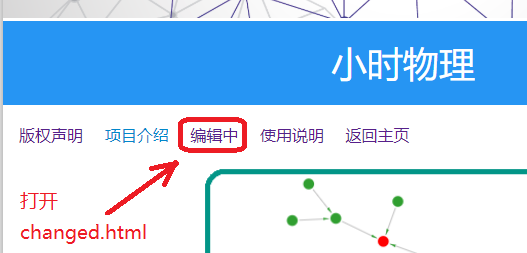
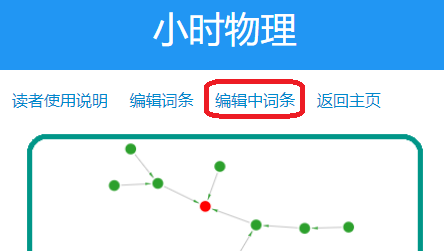
server save

diff --git a/contents/editor.tex b/contents/editor.tex
@@ -1,17 +1,28 @@
 % 编辑器使用说明
 
-\subsection{综述}
+\subsection{简介}
 \begin{itemize}
+\item 在线编辑器网址为 \link{littleshi.cn/editor}{http://littleshi.cn/editor}， 也可从网站首页的链接进入
 \item 编辑器处于测试阶段， 请自行使用下载按钮备份
-\item 该编辑器为本站自主开发， 可直接将 LaTeX 代码转换为 html 网页而不是 pdf， 从而实现了实时编译（快捷键 \lstinline|Ctrl + s| 保存并编译）
+\item 该编辑器为本站自主开发， 可直接将 LaTeX 代码转换为 html 网页而不是 pdf
 \item 我们以后也会开发在线编译 pdf 并下载的功能
 \item 该编辑器除公式外只支持有限的 LaTeX 的命令（工具栏有一些常用的）
-\item 我们在模板中加入了许多自定义命令， 但不会影响 LaTeX 原有的命令（除了 \lstinline|\vec|， 见下文）．
+\item 我们在模板中加入了许多自定义命令， 但不会影响 LaTeX 原有的命令（除了 \lstinline|\vec|）
+\item 要查看支持的所有命令和自定义命令， 请在编辑器中打开 “词条示例（Sample）\upref{Sample}”
+\end{itemize}
+
+\subsection{公式}
+\begin{itemize}
+\item 公式环境支持大部分 LaTeX 命令， 严格来说是所有 \link{MathJax}{https://www.mathjax.org/} 支持的命令\footnote{MathJax 项目用于在网页上显示 LaTeX 公式}．
+\item 支持部分 \link{Physics 宏包}{http://mirrors.ibiblio.org/CTAN/macros/latex/contrib/physics/physics.pdf}中的命令．
+\item 我们把 \lstinline|\vec| 命令重新定义为正体和粗体（以符合常见物理学教材）， 如 \lstinline|\vec a| 被显示为 $\vec a$ ．
+\item 行内公式只能用美元符号
+\item 独立公式用 equation 环境， align 环境或者 gather 环境
 \end{itemize}
 
 \subsection{百科的结构}
 
-百科的所有词条（见\link{总目录}{http://littleshi.cn/online/}）是 LaTeX 的一个 document 环境， 每个部分是一个 \lstinline|\part|， 每章是一个 \lstinline|\chapter|， 词条是 \lstinline|\section|， 蓝色的小标题是 \lstinline|\subsubsection|， 黑色的小标题是 \lstinline|\subsubsection|． 编辑器打开的一个词条文件就是一个 section． 用 texlive 编译 pdf 的时候所有 section 都会通过 \lstinline|\input| 插入到主文件 PhysWiki.tex 中．
+百科的所有词条是 LaTeX 的一个 document 环境， 每个部分是一个 \lstinline|\part|， 每章是一个 \lstinline|\chapter|， 词条是 \lstinline|\section|， 蓝色的小标题是 \lstinline|\subsubsection|， 黑色的小标题是 \lstinline|\subsubsection|． 编辑器打开的一个词条文件就是一个 section． 用 texlive 编译 pdf 的时候所有 section 都会通过 \lstinline|\input| 插入到主文件 PhysWiki.tex 中．
 
 网页版的词条目录（\link{littleshi.cn/online/}{http://littleshi.cn/online/}）由 PhysWiki.tex 生成， 所以发布词条后必须修改该文件并发布才能在目录中显示．
 
@@ -20,15 +31,15 @@
 \begin{figure}[ht]
 \centering
 \includegraphics[width=9cm]{./figures/editor1.png}
-\caption{查看编辑中的词条} \label{editor_fig1}
+\caption{从 \link{littleshi.cn/online}{http://littleshi.cn/online} 查看编辑中的词条} \label{editor_fig1}
 \end{figure}
 
 每个词条文件（后缀名为 tex）都有一个独一无二的文件名， 可以将通过将光标停留在编辑器中的 tab 上查看．
 
 \begin{figure}[ht]
 \centering
-\includegraphics[width=5cm]{./figures/editor2.png}
-\caption{查看编辑器中打开的词条的文件名} \label{editor_fig2}
+\includegraphics[width=4cm]{./figures/editor2.png}
+\caption{查看词条文件名} \label{editor_fig2}
 \end{figure}
 
 每个词条（section） 的 label 与文件名相同， 转换后输出的 html 文件也由相同的文件名， 可以在浏览器的地址栏中看到（例如本文的 tex 文件是 editor.tex， label 是 editor， 转换成网页为 editor.html）．
@@ -39,11 +50,9 @@
 
 \item 按下保存按钮（快捷键 \lstinline|Ctrl + s|） 会自动保存并编译
 
-\item 如果要在 html 预览和 LaTex 代码之间跳转， 可以通过搜索关键词实现． 例如在预览窗口复制一段文字， 在编辑窗口搜索就可以跳转到对应内容
-
-\item 要查看编辑器支持的所有命令和所有自定义的公式， 见 “词条示例（Sample）\upref{Sample}”． 当然， 所有已有的词条也都可以作为示例
-
 \item 编辑器支持各种自动引用（被引用对象没有 label 时会自动插入 label）， 工具栏上的内部引用按钮可以引用同一词条的公式， 图表， 例题等环境． 外部引用按钮可以引用其他词条的各种环境
+
+\item 如果要在 html 预览和 LaTex 代码之间跳转， 可以通过搜索关键词实现． 例如在预览窗口复制一段文字， 在编辑窗口搜索就可以跳转到对应内容
 \end{itemize}
 
 \subsubsection{快捷键}
@@ -69,17 +78,3 @@
 \hline
 \end{tabular}
 \end{table}
-
-\subsection{公式}
-\begin{itemize}
-\item 公式环境支持大部分 LaTeX 命令， 严格来说是所有 \link{MathJax}{https://www.mathjax.org/} 支持的命令\footnote{MathJax 项目用于在网页上显示 LaTeX 公式}．
-\item 支持部分 \link{Physics 宏包}{http://mirrors.ibiblio.org/CTAN/macros/latex/contrib/physics/physics.pdf}中的命令．
-\item 我们把 \lstinline|\vec| 命令重新定义为正体和粗体， 如 \lstinline|\vec a| 被显示为 $\vec a$．
-\end{itemize}
-
-\subsection{格式要求}
-
-\begin{itemize}
-\item 行内公式用美元符号
-\item 独立公式用 equation 环境， align 环境或者 gather 环境
-\end{itemize}

diff --git a/contents/Sample.tex b/contents/Sample.tex
@@ -1,15 +1,11 @@
-% 百科词条编写规范
+% 词条示例
 
 \pentry{本书编写规范\upref{Sample}}
 
-\textbf{本词条需要与 LaTeX 源码对照阅读}
-
-\subsection{蓝色的小标题}
-通过 \lstinline|\subsection{}| 实现．
-\subsubsection{黑色的小小标题}
-通过 \lstinline|\subsubsection{}| 实现．
+本词条需要与 LaTeX 源码对照阅读， 请使用\link{在线编辑器}{http://littleshi.cn/editor}中打开．
 
 \subsection{正文}
+蓝色的小标题通过 \lstinline|\subsection| 实现， 黑色的小小标题通过 \lstinline|\subsubsection| 实现．
 
 正文必须使用中文的括号，逗号，引号，冒号，分号，问号，感叹号，以及全角实心句号． 严谨使用英文标点． 像“牛顿—莱布尼兹公式” 中的横线必须用中文单破折号． 所有的标点符号前面不能有空格，后面尽量有空格． 正文\textbf{粗体}用 \lstinline|\textbf|． 方便的办法是先全部使用中文标点，最后再把所有空心句号替换成全角实心句号． 正文中禁止使用 \lstinline|\\| 换行， 以及 \lstinline|\noindent|， \lstinline|\phantom| 等命令强制修改格式．
 
@@ -18,7 +14,7 @@
 
 独立公式的 label 必须要按照 “词条标签\_eq编号” 的格式，只有需要引用的公式才加标签， 标签编号无需和编译后的编号相同， 保证标签不重复即可． 图表的标签分别把 \lstinline|eq| 改成 \lstinline|fig| 和 \lstinline|tab| 即可，例题用 \lstinline|ex|， 习题用 \lstinline|exe|．但凡是有 \lstinline|\caption| 命令的，\lstinline|\label| 需要紧接其后． 公式严禁使用 MathType 等软件自动生成， 必须手打．
 \begin{equation}\label{Sample_eq1}
-(a+b)^n = \sum_{i=0}^n C_n^i a^i b^{n-i} \quad (n\text{为整数})
+(a+b)^n = \sum_{i=0}^n C_n^i a^i b^{n-i} \quad (\text{$n$ 为整数})
 \end{equation}
 
 公式中的空格从小到大如 $a\, b\; c\quad d\qquad e$， 注意大括号不可省略． 公式中三点省略号用 $\dots$， 如果要强制在下方， 用 $\ldots$． 实部和虚部如 $\Re[z], \Im[z]$． 双重极限如
@@ -65,7 +61,7 @@
 \begin{equation}
 \qty(\frac ab)^2 \qquad \qty[\frac ab]^2 \qquad \qty{ \frac ab}
 \end{equation}
-矢量点乘如 $\vec A \vdot \vec B$ （不可省略），矢量叉乘如 $\vec A\cross\vec B$．
+矢量点乘如 $\vec A \vdot \vec B$ （\lstinline|\vdot| 不可省略），矢量叉乘如 $\vec A\cross\vec B$．
 
 常用三角函数和自然指数对数函数后面的小括号（中括号不可以！）会自动改变尺寸，若要给他们加幂，用中括号
 \begin{equation}
@@ -87,11 +83,11 @@
 \subsection{自定义的命令}
 本模板自定义的命令如下， 如果不使用， 要保证编译后效果相同．
 
-引用公式和图表都统一使用 \lstinline|\autoref| 命令， 注意前面不加空格后面要加空格（后面是标点符号除外）， 例如\autoref{Sample_eq1}． 如果要引用其他词条中的公式，可以引用“其他词条\upref{Sample}”的\autoref{Sample_eq1} 也可以用“\autoref{Sample_eq1}\upref{Sample}”， 为了方便在纸质书上使用， 词条页码是不能忽略的．
+引用公式和图表都统一使用 \lstinline|\autoref| 命令， 注意前面不加空格后面要加空格（后面是标点符号除外）， 例如\autoref{Sample_eq1}． 如果要引用其他词条中的公式，可以引用 “其他词条\upref{Sample}” 的\autoref{Sample_eq1} 也可以用 “\autoref{Sample_eq1}\upref{Sample}”， 为了方便在纸质书上使用， 词条页码是不能忽略的．
 
-单位矢量如 $\uvec a$．
+正文中粗体可以用 \lstinline|\bb| 等效于 \lstinline|\textbf|． 单位矢量如 $\uvec a$．
 
-写量纲用 \lstinline|\Si{}| 命令， 如 $a = 100\Si{m/s^2}$， 这个命令只能出现在公式环境内（否则 PhysWikiScan 会出 Bug）．
+写量纲用 \lstinline|\Si{}| 命令， 如 $a = 100\Si{m/s^2}$， 这个命令只能出现在公式环境内．
 
  \lstinline|\sinc| 函数如 $\sinc x, \sinc(x), \sinc^2(x+y)$，但后面的括号没有自动尺寸．
  
@@ -158,7 +154,7 @@ $(1 + x)^{1/x}$ & 2.59374 & 2.70481 & 2.71692 & 2.71815 & 2.71827 & 2.71828 \\
 \begin{exam}{名称}\label{Sample_ex1}
 在例子中，我们的字体可以自定义，包括公式的字号会保持与内容一致．
 \begin{equation}
-(a+b)^n = \sum_{i=0}^n C_n^i a^i b^{n-i} \quad (n\text{为整数})
+(a+b)^n = \sum_{i=0}^n C_n^i a^i b^{n-i} \quad (\text{$n$ 为整数})
 \end{equation}
 \end{exam}
 引用例子同样使用 \lstinline|\autoref{}|， 如\autoref{Sample_ex1}． 

diff --git a/contents/ResoN.tex b/contents/ResoN.tex
@@ -28,5 +28,5 @@ A = \frac{B}{\sqrt{(\omega^2 - \omega_0^2)^2 m^2 + \alpha^2\omega^2}}
 E = \frac{C}{\Delta\omega^2 + \gamma^2/4}. 
 \end{align}
 
-接下来，我们讨论对一个这种高$Q$阻尼振荡里面，频率的测量到底能有多精准．这个问题之所以重要是因为当今最准确的测量就是对于频率的测量，所以这个问题的讨论实际上对应于我们对于物理量的测量到底能精确到什么程度．当然，这个问题最最直接的回答是由Fourier定理保证的，$\Delta t\Delta \omega\ge1/2$．这个形式与Heisenberg不确定性原理非常像，其原因之一就是量子力学的量子态是有其波动内涵的．然而这个回答是非常微妙的，因为对于$\Delta\omega$的定义其实并不明确．
+接下来，我们讨论对一个这种高$Q$阻尼振荡里面，频率的测量到底能有多精准．这个问题之所以重要是因为当今最准确的测量就是对于频率的测量，所以这个问题的讨论实际上对应于我们对于物理量的测量到底能精确到什么程度．当然，这个问题最最直接的回答是由Fourier定理保证的，$\Delta t\Delta \omega\ge1/2$．这个形式与Heisenberg不确定性原理非常像，其原因之一就是量子力学的量子态是有其波动内涵的．然而这个回答是非常微妙的，因为对于$\Delta\omega$的定义其实并不明确．s
 
